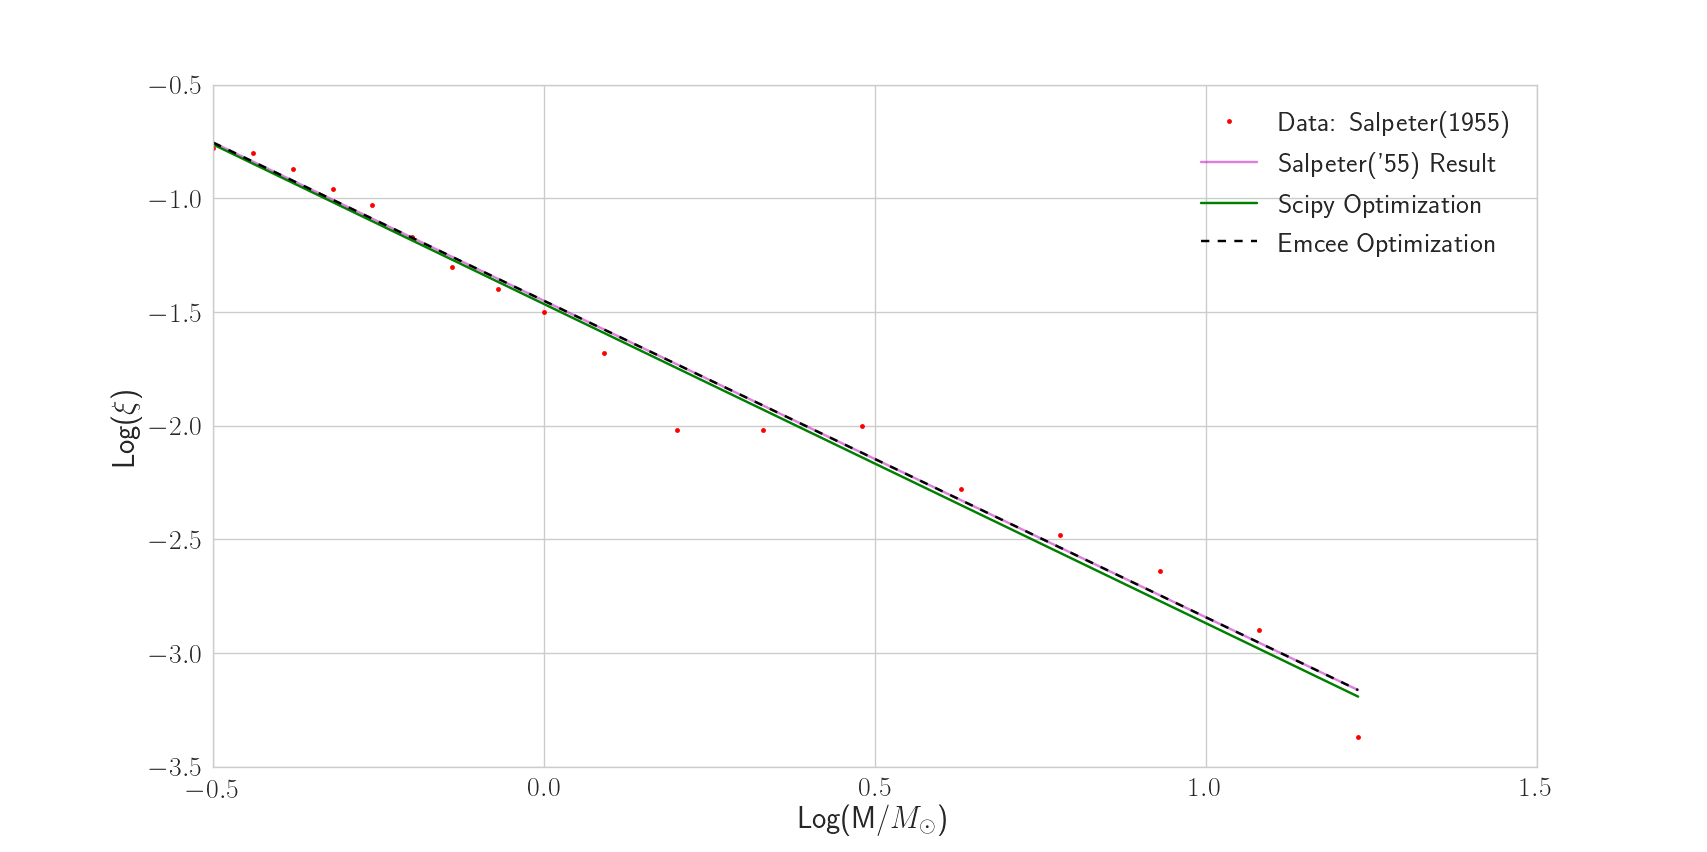
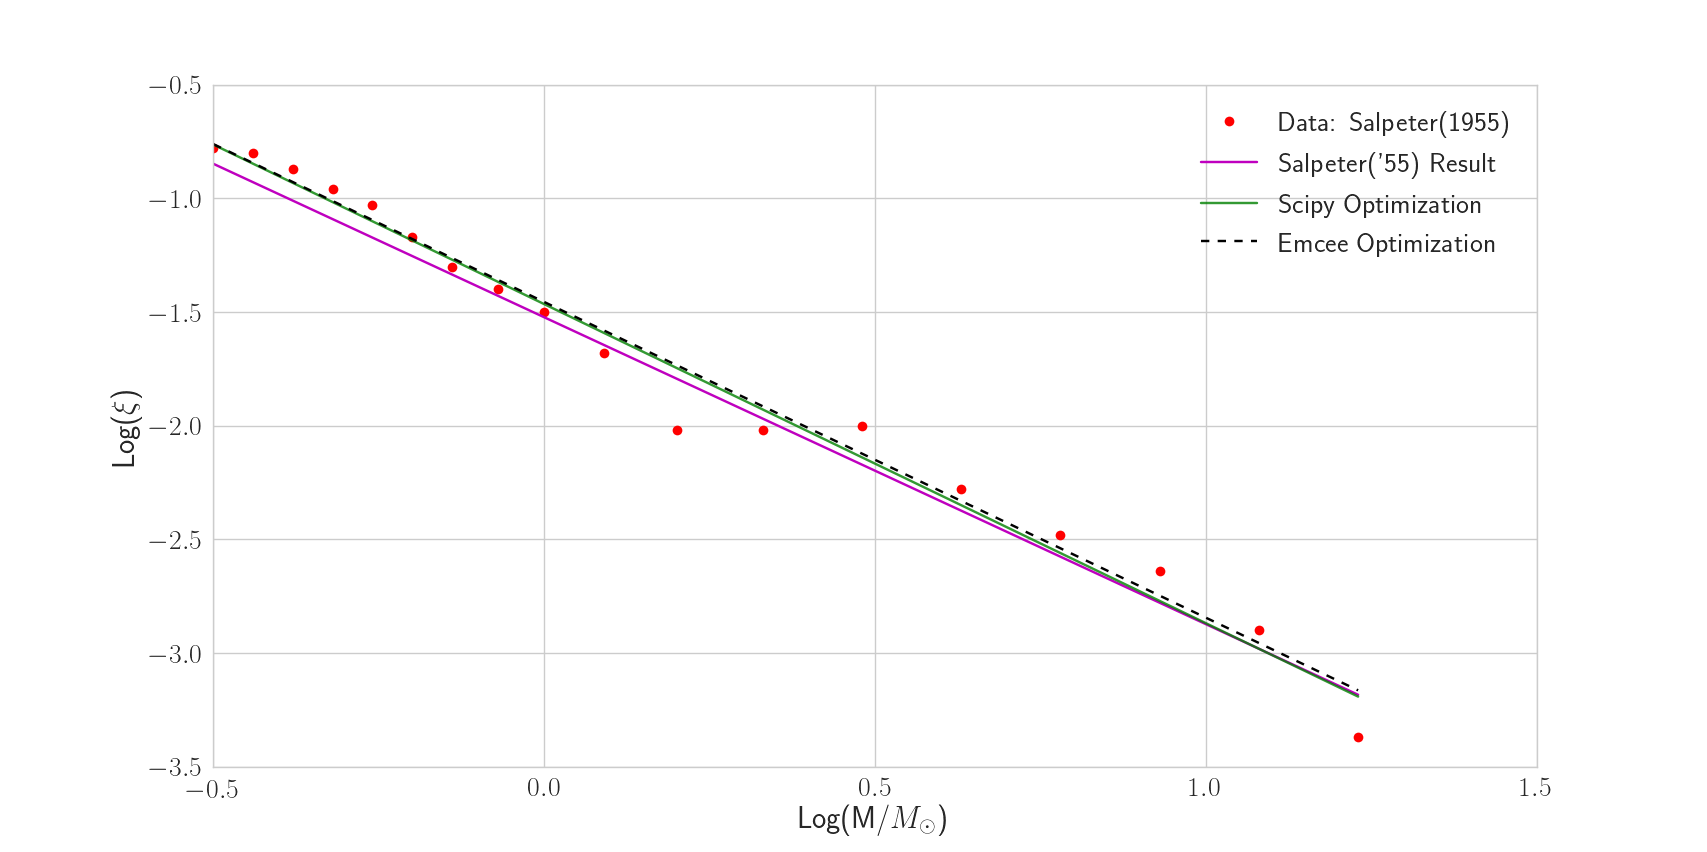
Update salp

diff --git a/hw02/q2.py b/hw02/q2.py
@@ -9,60 +9,68 @@ sns.set_style("whitegrid")
 sns.set_context("notebook",font_scale=2)
 
 def random_masses(alpha, Mmin, Mmax, N):
-    """
-    Draw N mass values from a power law distribution with index alpha
-    """
+    """Draw N mass values from a power law distribution with index alpha"""
     return (Mmin-Mmax)*np.random.power(alpha,N)+ Mmax
 
 def imf(m,alpha):
-    """
-    Compute the IMF given the mass range and power law index
-    """
+    """Compute the IMF given the mass range and power law index"""
     return m**(-alpha)
 
-def lnP(alpha,Mmax,Mmin,mass):
-    """
-    Return the log likelihood of the mass, given by the IMF. theta= (Mmin,Mmax,alpha)
-    """    
-    #    Mmin,Mmax,alpha = theta[0],theta[1],theta[2]
-    #    print(Mmin,Mmax,alpha)
+def lnprior(theta):
+    """Imposing the known priors on parameters theta= (Mmin,Mmax,alpha)"""
+    Mmin,Mmax,alpha = theta[0],theta[1],theta[2]
+    if 1 < alpha < 2:
+        Mmin = 3
+        return Mmin, Mmax, alpha
+    return -np.inf,-np.inf,-np.inf
+    
+def lnP(theta,mass):
+    """Return the log likelihood of the mass, given by the IMF. theta=
+    (Mmin,Mmax,alpha)"""
+    lp = lnprior(theta)
+    if (np.isfinite(lp)).all == False:
+        return -np.inf
+    Mmin, Mmax, alpha = lp[0],lp[1],lp[2] 
     c,err = integrate.quad(imf,Mmin,Mmax,args=alpha)
+    if c<0:
+        return -np.inf
     logP = np.sum(-alpha*np.log(mass)-np.log(c))
-    return logP
+    if np.isfinite(logP):
+        return logP
+    return -np.inf
 
-def mcmc(data,nwalkers,**params):
-    ndim =3
-    mass =data
-    if ('Mmin' in params.keys()):
-        min_mass = params['Mmin']
-        print(min_mass)
-        ndim -= 1
-        #        theta0[:,0] = min_mass
-        #        arguments.append([])
-    if ('Mmax' in params.keys()):
-        max_mass = params['Mmax']
-        ndim -= 1
-        #        theta0[:,1] = max_mass
-    if ('alpha' in params.keys()):
-        a = params['alpha']
-        ndim -= 1
-        #        theta0[:,2] = a
+def mcmc(ndim,nwalkers,mass):
+    # ndim =3
+    # if ('Mmin' in params.keys()):
+    #     min_mass = params['Mmin']
+    #     print(min_mass)
+    #     ndim -= 1
+    #     #        theta0[:,0] = min_mass
+    #     #        arguments.append([])
+    # if ('Mmax' in params.keys()):
+    #     max_mass = params['Mmax']
+    #     ndim -= 1
+    #     #        theta0[:,1] = max_mass
+    # if ('alpha' in params.keys()):
+    #     a = params['alpha']
+    #     ndim -= 1
+    #     #        theta0[:,2] = a
         
     theta0 = np.array([np.random.ranf(ndim) for i in range(nwalkers)])
-    print(np.shape(theta0))
-    sampler = emcee.EnsembleSampler(nwalkers,ndim,lnP,args=[3,mass])
-    return sampler.run_mcmc(theta0,100)
+    sampler = emcee.EnsembleSampler(nwalkers,ndim,lnP,args=([mass]))
+    sampler.run_mcmc(theta0,100)
+    return sampler
 
 data = random_masses(1.35,3,15,1000)
 print("Generated random values..")
 
-nwalkers = 200
-sampler = mcmc(data,nwalkers,Mmin=3)
+ndim,nwalkers = 3,200
+sampler = mcmc(ndim,nwalkers,data)
 print("Ran the Markov chain! Plotting now..")
 
 f1,ax1 = plt.subplots(1,1)
-ax1 = plt.hist(mass, bins=40)
+ax1 = plt.hist(data,bins=50)
 
-f2 = corner.corner(sampler.flatchain,labels=('M_min','M_max','alpha'),show_titles=True,truths=[3,15,1.35])
+#f2 = corner.corner(sampler.flatchain,labels=('M_min','M_max','alpha'),show_titles=True,truths=[3,15,1.35])
 
 plt.show()

diff --git a/hw02/q4.py b/hw02/q4.py
@@ -46,10 +46,15 @@ def gen_mass(N,mmin,mmax):
     #autocorrelation time. It's currently high with this method.
     pos,prob,state = sampler.run_mcmc(m0,100)
     sampler.reset()
-    sampler.run_mcmc(pos,10)
-    samples = sampler.flatchain
-    print('The autocorrelation time:%f\n'%emcee.autocorr.integrated_time(samples))
-    hist,bin_edges = np.histogram(samples,bins=100)
+    masses = np.array([])
+
+    while np.size(masses) < N:
+        sampler.run_mcmc(pos,1000)
+        samp = sampler.flatchain
+        masses = np.append(masses,samp[(samp>=0.5)&(samp<=0.8)])
+        print('The autocorrelation time:%f\n'%emcee.autocorr.integrated_time(masses))
+    
+    hist,bin_edges = np.histogram(masses[-N:-1],bins=10)
     bins = (bin_edges[:-1] + bin_edges[1:])/2
     return bins,hist
 
@@ -71,11 +76,11 @@ def mcmc(ndim,nwalkers,mass,num):
 mass,num = gen_mass(10000,0.5,0.8)
 
 theta_mcmc = mcmc(2,100,mass,num)
-num_mcmc = theta_mcmc[0] + np.log(mass)*theta_mcmc[1]
+num_mcmc = np.exp(theta_mcmc[0])*(mass**theta_mcmc[1])
 
 f,ax = plt.subplots(1,1)
-ax.plot(np.log(mass),np.log(num),'o',label='Generated Data')
-ax.plot(np.log(mass),num_mcmc,label='emcee fit')
+ax.plot(mass,num,'o',label='Generated Data')
+ax.plot(mass,num_mcmc,label='emcee fit')
 ax.legend()
 
 plt.show()

diff --git a/hw02/q3.py b/hw02/q3.py
@@ -58,9 +58,9 @@ yy_mcmc = xx*theta_mcmc[1] + theta_mcmc[0]
 
 # Plot all results
 f,ax = plt.subplots(1,1)
-ax.plot(mass,num,'r.',label='Data: Salpeter(1955)')
-ax.plot(xx,yy_mcmc,'m',label='Salpeter(\'55) Result',alpha=0.5)
-ax.plot(xx,yy_lsq,'g',label='Scipy Optimization')
+ax.plot(mass,num,'ro',label='Data: Salpeter(1955)')
+ax.plot(xx,yy_salp,'m',label='Salpeter(\'55) Result')
+ax.plot(xx,yy_lsq,'g',label='Scipy Optimization',alpha=0.8)
 ax.plot(xx,yy_mcmc,'k--',label='Emcee Optimization')
 ax.set_xlabel(r'Log(M/$M_{\odot}$)')
 ax.set_ylabel(r'Log($\xi$)')
